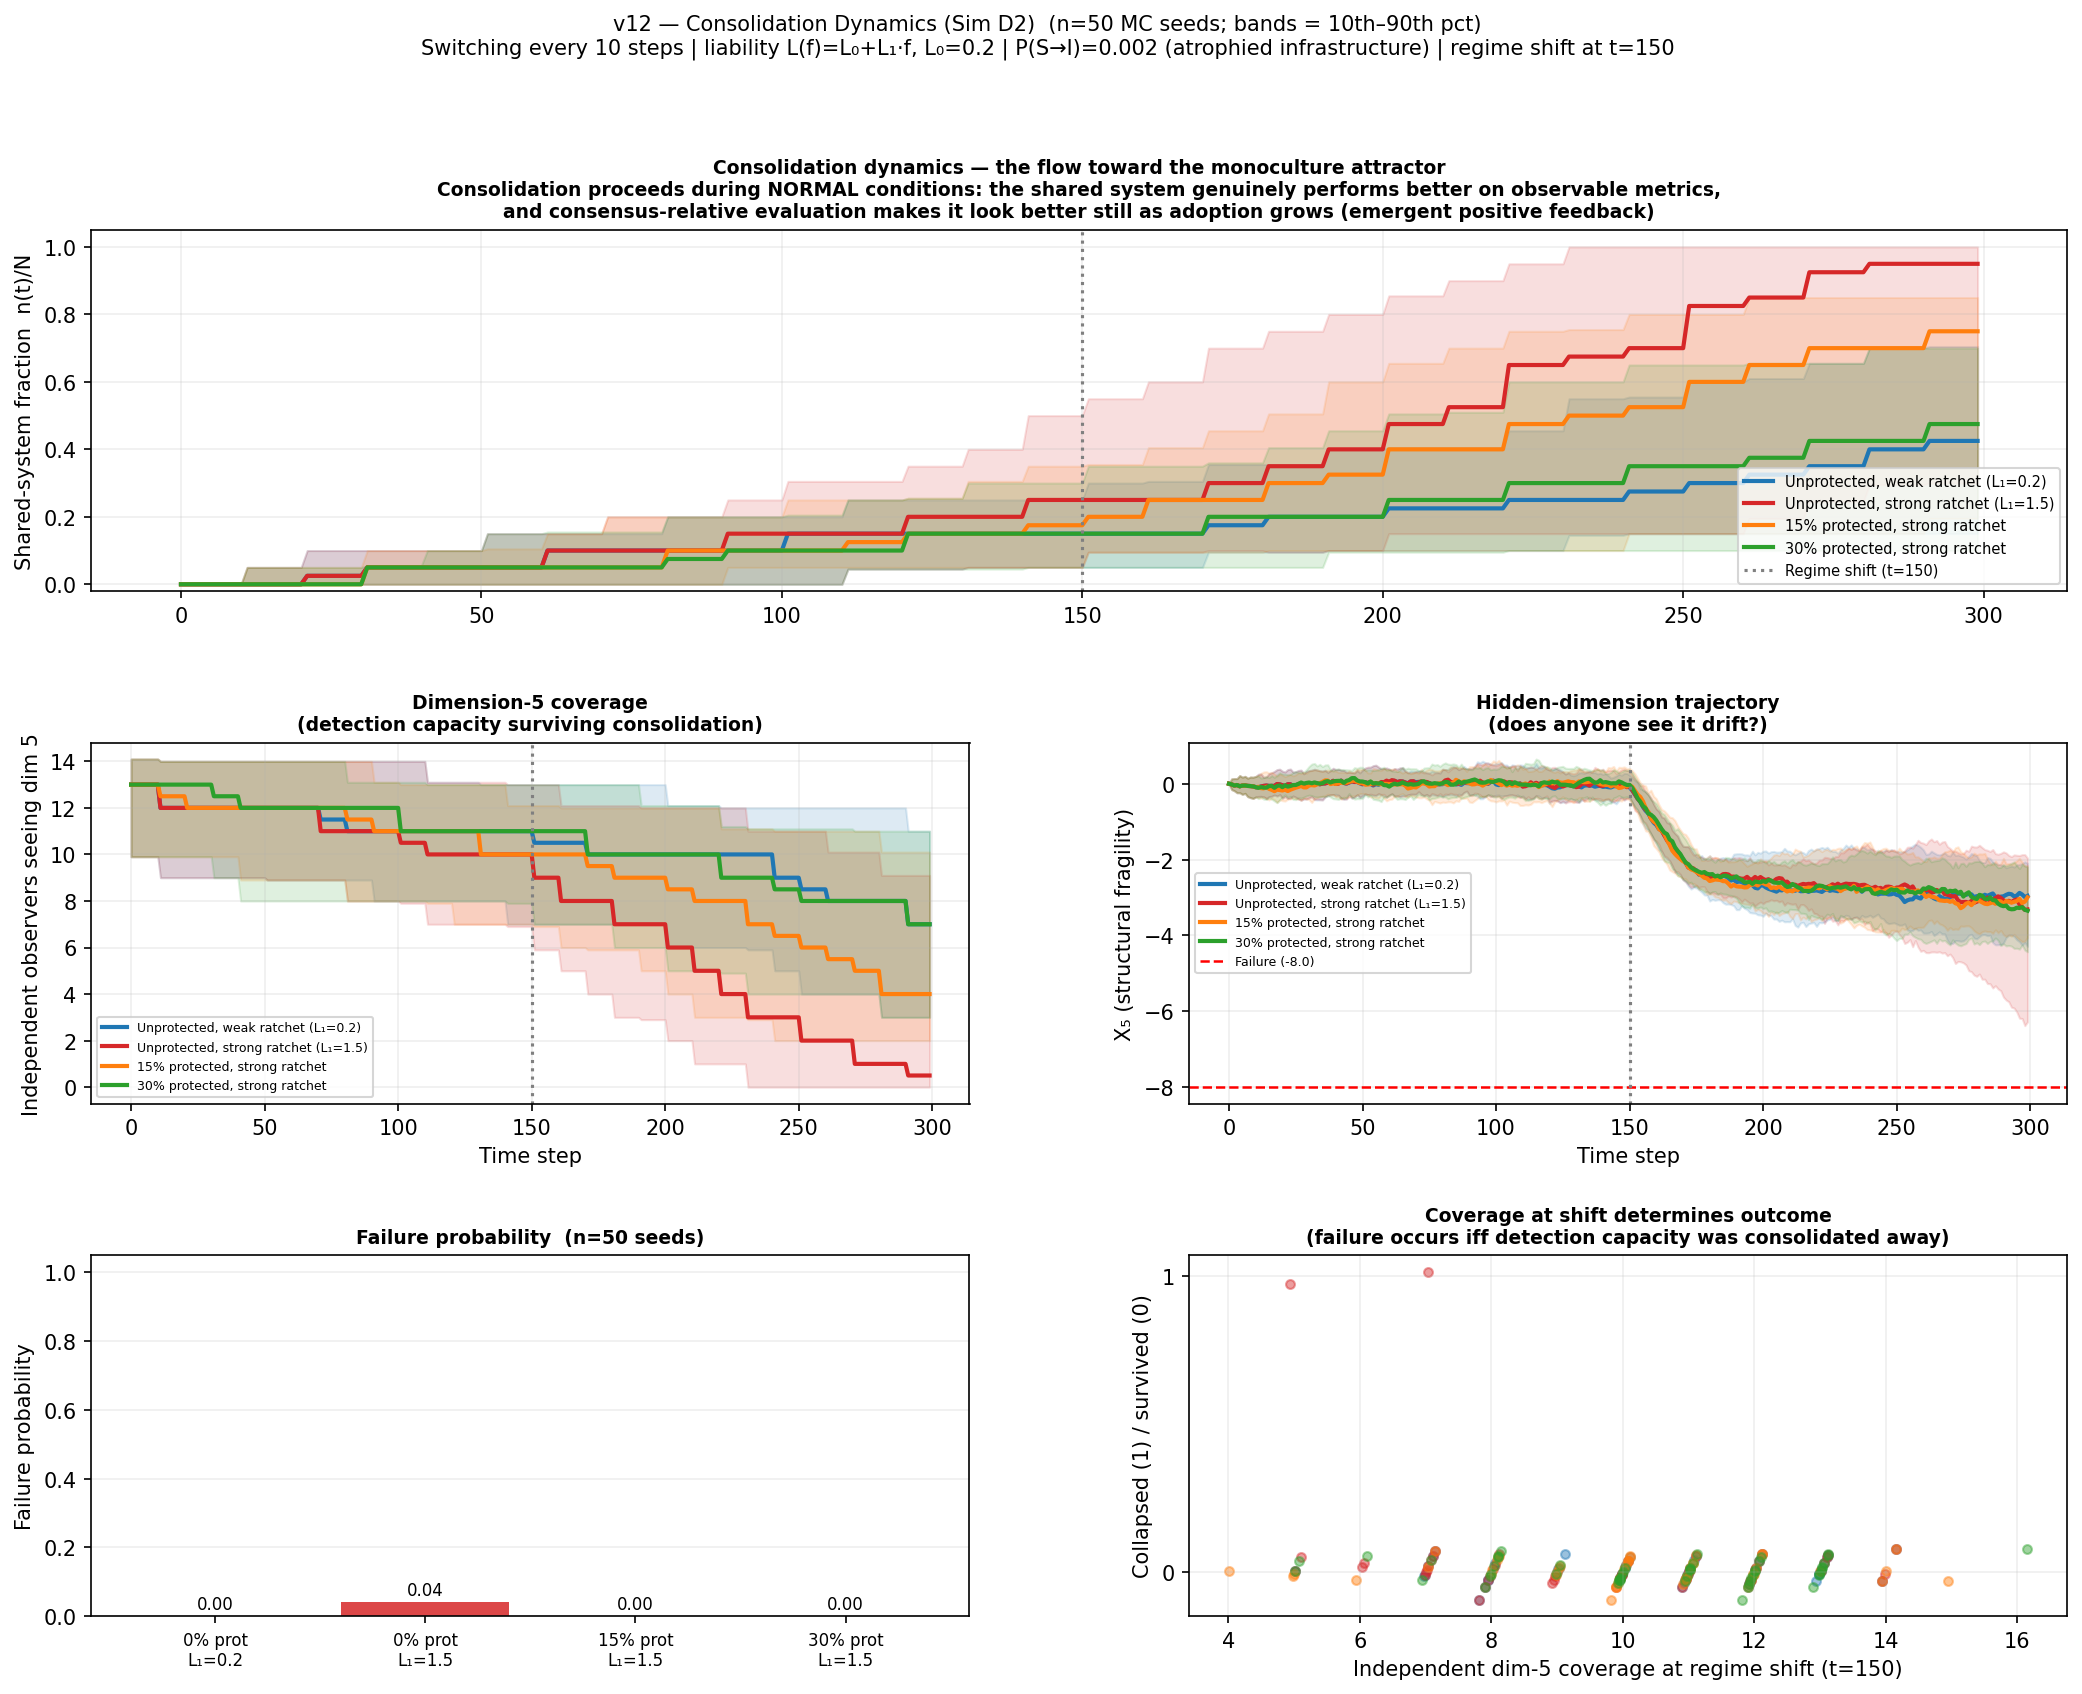
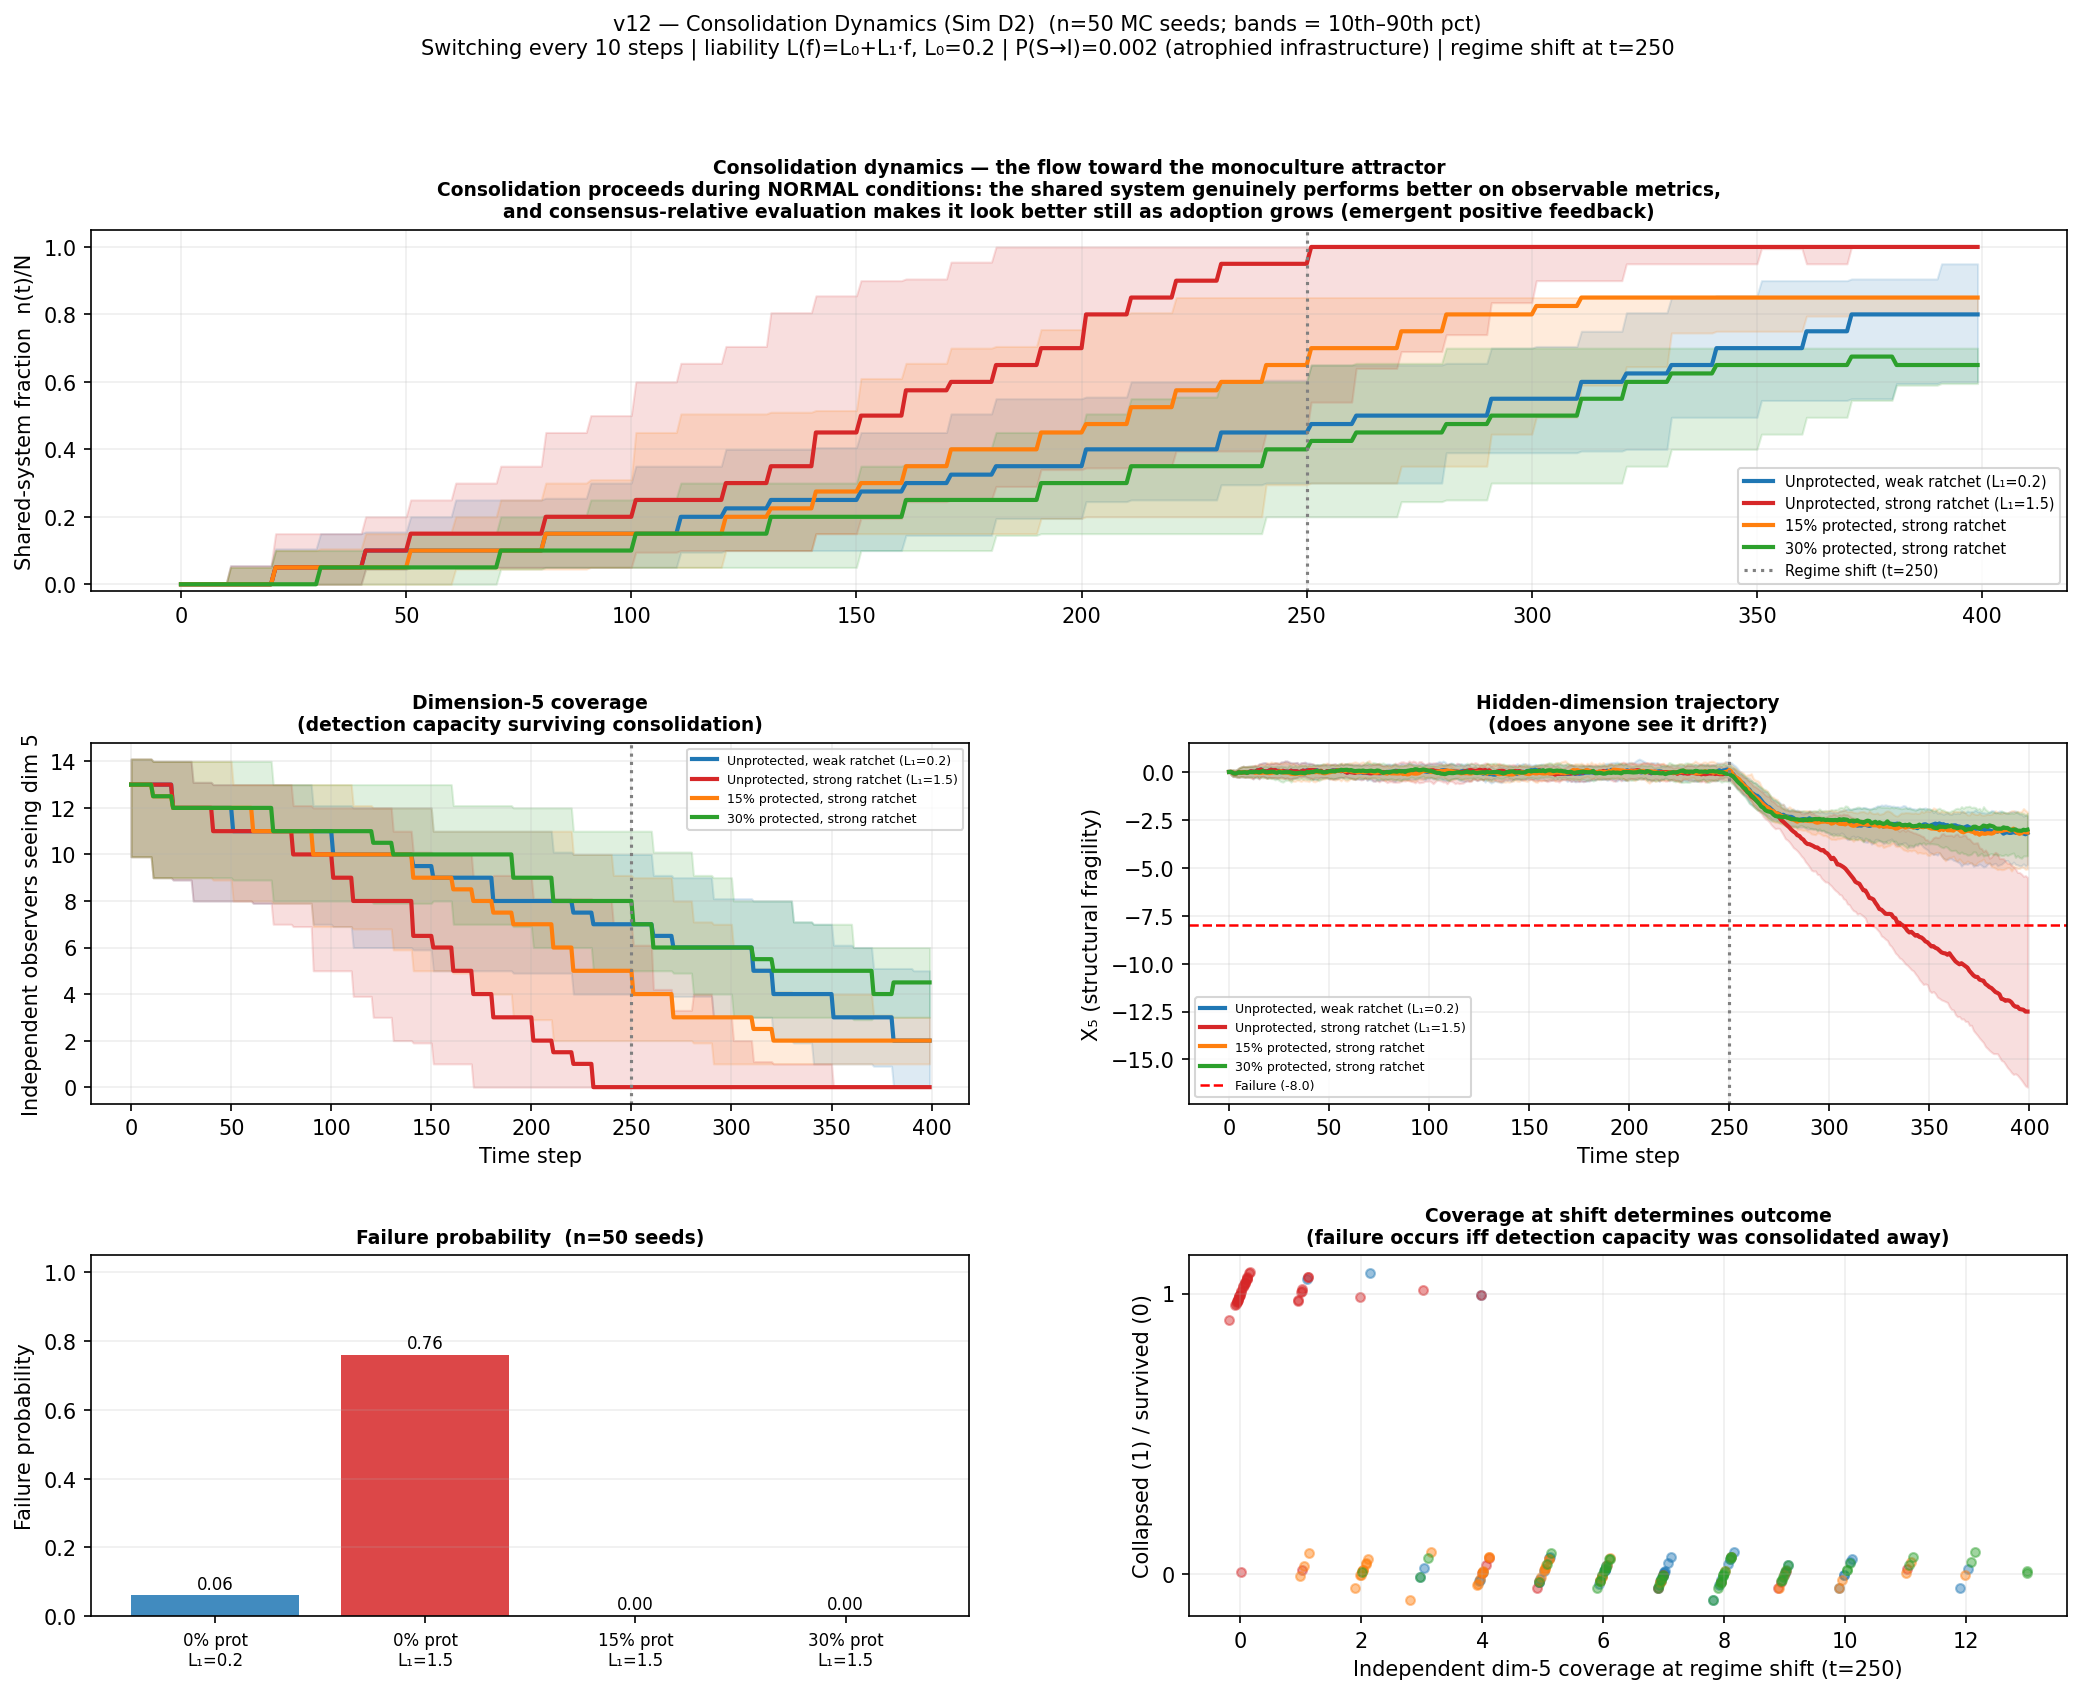
Update README with new papers and simulations

diff --git a/gae-simulator-v12-consolidation-dynamics.py b/gae-simulator-v12-consolidation-dynamics.py
@@ -28,19 +28,19 @@ v12 implements the switching dynamics:
 
 TIMELINE
 --------
-t ∈ [0, 150):  normal conditions. The shared system genuinely performs better
+t ∈ [0, 250):  normal conditions. The shared system genuinely performs better
                on observable dimensions. Consolidation proceeds — driven by
                real short-term advantage, not error.
-t = 150:       regime shift. Dimension 5 (observed by NO shared adopter)
+t = 250:       regime shift. Dimension 5 (observed by NO shared adopter)
                begins persistent drift toward failure.
-t ∈ (150, 300]: the question is whether enough independent observers survived
+t ∈ (250, 400]: the question is whether enough independent observers survived
                consolidation to detect the drift and trigger the gate.
 
 This is the paper's narrative made dynamic: diversity is destroyed during
 normal times precisely because consolidation is then locally rational, and
 the cost appears only when the blind spot becomes load-bearing.
 
-FAILURE: X₅ < −8 at any time within T = 300.
+FAILURE: X₅ < −8 at any time within T = 400.
 
 OUTPUTS
 -------
@@ -58,8 +58,9 @@ os.makedirs('outputs', exist_ok=True)
 
 # ── Constants ──────────────────────────────────────────────────────────────────
 
-T          = 300
-T_SHIFT    = 150          # regime shift (later than v11: consolidation needs runway)
+T          = 400
+T_SHIFT    = 250          # regime shift — 25 evaluation cycles of normal-conditions
+                          # runway so consolidation dynamics can differentiate
 N_OBS      = 20
 DIMS       = 5
 DIM_BLIND  = 4            # dimension 5 = index 4
@@ -94,8 +95,11 @@ L0         = 0.2          # baseline liability cost of independence
 L1_DEFAULT = 0.8
 
 W_ACC      = 1.0          # weight of perceived accuracy differential in advantage
-SWITCH_K   = 2.5          # logistic steepness
-SWITCH_MID = 2.4          # advantage at which P = P_MAX/2
+SWITCH_K   = 2.35         # logistic steepness
+SWITCH_MID = 2.36         # midpoint placed BETWEEN the weak-ratchet advantage
+                          # ceiling (~1.5) and the strong-ratchet late-stage
+                          # advantage (~2.9): weak ratchets saturate at slow
+                          # switching; strong ratchets ignite the feedback loop
 P_MAX      = 0.45         # max switching probability per evaluation
 P_BACK     = 0.002        # probability of S→I per evaluation per org
                           # (atrophied infrastructure: rebuilding an independent
@@ -374,7 +378,7 @@ for sc, m in zip(SCENARIOS, mc):
     jitter = np.random.default_rng(0).normal(0, 0.08, len(cov_at_shift))
     ax_s.scatter(cov_at_shift + jitter, m['collapsed'] + jitter * 0.5,
                  color=sc['color'], alpha=0.45, s=18)
-ax_s.set_xlabel('Independent dim-5 coverage at regime shift (t=150)')
+ax_s.set_xlabel(f'Independent dim-5 coverage at regime shift (t={T_SHIFT})')
 ax_s.set_ylabel('Collapsed (1) / survived (0)')
 ax_s.set_yticks([0, 1])
 ax_s.set_title('Coverage at shift determines outcome\n'

diff --git a/README.md b/README.md
@@ -1,12 +1,8 @@
-Here is the updated README, with Paper V added to the table for completeness, and the two new simulators described.
-
----
-
 # Governance as Engineering Governance Simulator
 
-A series of Python simulations accompanying the **Governance as Engineering** whitepaper series. Each version applies formal tools from control theory, cybernetics, and information theory to a different structural problem in governance design.
+A series of Python simulations accompanying the **Governance as Engineering** working paper series. Each version applies formal tools from control theory, cybernetics, and information theory to a different structural problem in governance design.
 
-All simulations are self‑contained, dependency‑light, and fully reproducible from a fixed random seed.
+All simulations are self‑contained, dependency‑light, and fully reproducible from fixed random seeds. From v8 onward, every simulation adds a Monte Carlo layer (50–200 seeds, reported as median trajectories with 10th–90th percentile bands) and at least one parameter‑sweep map demonstrating that the qualitative results are robust across regions of parameter space rather than artefacts of a single configuration.
 
 ---
 
@@ -19,64 +15,113 @@ All simulations are self‑contained, dependency‑light, and fully reproducible
 | III | [The Observability‑Democracy Connection](https://bjornkennethholmstrom.org/whitepapers/observability-democracy-connection) | Representation chains with 3+ layers are constitutionally unobservable; citizen preferences cannot survive to the policy layer regardless of institutional quality |
 | IV | [Requisite Variety and the Commons](https://bjornkennethholmstrom.org/whitepapers/requisite-variety-and-the-commons) | Commons governance is a feedback loop integrity problem; observation dimensionality — not institutional quality — determines outcomes; state management is worse than open access |
 | V | [The Coordination Failure Tax](https://bjornkennethholmstrom.org/whitepapers/coordination-failure-tax) | The four failure modes multiply rather than add; governance systems exhibiting all four are categorically incapable of the functions they claim to perform |
-| VI | [The Variety Gap](https://bjornkennethholmstrom.org/whitepapers/the-variety-gap) | What we don’t optimize for, we lose the ability to see — objective functions are observation architectures, and low‑dimensional value functions produce structural collapse |
+| VI | [The Variety Gap](https://bjornkennethholmstrom.org/whitepapers/the-variety-gap) | What we don't optimize for, we lose the ability to see — objective functions are observation architectures, and low‑dimensional value functions produce structural collapse |
+| VII | [The Architecture of Governance Failure](https://www.bjornkennethholmstrom.org/working-papers/architecture-of-governance-failure) | Reform disappoints for structural reasons: the immune system, the bypass trap, and the legibility problem are features of the transition landscape, not contingent failures — a qualitative synthesis of fifteen country studies |
+| VIII | [Measuring the Variety Gap](https://www.bjornkennethholmstrom.org/working-papers/measuring-the-variety-gap) | The variety gap is measurable: a composite index estimated from observable proxies, with epistemic tiering, across twenty country and organizational cases |
+| IX | [The Political Economy of Requisite Governance](https://www.bjornkennethholmstrom.org/working-papers/political-economy-of-requisite-governance)* | Transition bandwidth is the ninth structural primitive; latency asymmetry favours embedded incumbents; systems lose the capacity for self‑redesign strictly before operational collapse |
+| X | [Requisite Observer Diversity](https://www.bjornkennethholmstrom.org/working-papers/requisite-observer-diversity) | Observer diversity is the tenth structural primitive; N_eff = N/(1+(N−1)ρ) — a consolidated observer ensemble retains N nominal observers but the protection of one, and its blind spots are invisible to every instrument it possesses |
 
 ---
 
 ## Simulators
 
 ### v1 — Conceptual sketch
-Exploratory prototype. Not documented in the whitepapers.
+Exploratory prototype. Not documented in the working papers.
 
-### v2 — Single‑node scalar feedback (Paper I)
+### v2 — Single‑node scalar feedback (Paper I)
 Introduces the core feedback loop model: a single governance node with configurable latency and signal fidelity, subject to an external disturbance. Demonstrates the stability ceiling imposed by high latency.
 
 ```bash
 python gae-simulator-v2.py
 ```
 
-### v3 — Ten‑node vector model with localized shock (Paper I)
+### v3 — Ten‑node vector model with localized shock (Paper I)
 Extends v2 to a ten‑node spatial system. A localized shock at nodes 2 and 7 is visible to the local controller but invisible to the central controller, which sees only the aggregate signal. Demonstrates the averaging problem — the formal basis for subsidiarity.
 
 ```bash
 python gae-simulator-v3.py
 ```
 
-### v3‑unadjusted — Instability demonstration (Paper I)
+### v3‑unadjusted — Instability demonstration (Paper I)
 Identical to v3 but with gain set above the stability ceiling. Demonstrates the oscillatory failure mode predicted by the gain margin analysis.
 
 ```bash
 python gae-simulator-v3-unadjusted.py
 ```
 
-### v4 — Multi‑scale disturbance, three architectures (Paper II)
+### v4 — Multi‑scale disturbance, three architectures (Paper II)
 Models a governance system facing simultaneous fast, medium, and slow disturbances. Compares three architectures: single global controller, single local controller, and fractal nested controller. Demonstrates the frequency gap theorem — no single‑scale controller covers all disturbance bands.
 
 ```bash
 python gae-simulator-v4.py
 ```
 
-### v5 — Representation chain observability, four architectures (Paper III)
-Shifts domain from stability to preference transmission. Models 60 citizen groups holding preferences across 4 dimensions, transmitted through representation chains of 1–5 layers. Computes SNR at the policy layer. Demonstrates the constitutional unobservability threshold: SNR < 1 at ≥3 layers regardless of institutional quality.
+### v5 — Representation chain observability, four architectures (Paper III)
+Shifts domain from stability to preference transmission. Models 60 citizen groups holding preferences across 4 dimensions, transmitted through representation chains of 1–5 layers. Computes SNR at the policy layer. Demonstrates the constitutional unobservability threshold: SNR < 1 at ≥3 layers regardless of institutional quality.
 
 ```bash
 python gae-simulator-v5.py
 ```
 
-### v6 — Commons governance and requisite variety, five architectures (Paper IV)
+### v6 — Commons governance and requisite variety, five architectures (Paper IV)
 Models a 12‑patch renewable resource governed by five architectures over 30 years (360 months), subject to fast stochastic shocks, seasonal cycles, and a slow decadal carrying‑capacity decline. Computes mean stock, collapse risk, and extraction inequality (Gini) per architecture.
 
-Key finding: state management (Architecture B, annual survey) achieves 98.9% collapse risk — worse than open access (A, 93.6%) — because high observation latency combined with single‑dimension aggregation produces destabilising interventions. Community commons (D, 3 observation dimensions) and bioregional/indigenous governance (E, 6 dimensions including the slow ecological signal) are the only architectures that avoid near‑certain collapse.
+Key finding: state management (Architecture B, annual survey) achieves 98.9% collapse risk — worse than open access (A, 93.6%) — because high observation latency combined with single‑dimension aggregation produces destabilising interventions. Community commons (D, 3 observation dimensions) and bioregional/indigenous governance (E, 6 dimensions including the slow ecological signal) are the only architectures that avoid near‑certain collapse.
 
 ```bash
 python gae-simulator-v6.py
 ```
 
-### v7 — Value‑function collapse, two architectures (Paper VI)
-A minimal dynamical model of the Goodhart‑Ashby synthesis. Two coupled state variables — Wealth (W) and Environment (E) — are governed by a 1D controller (GDP‑only, observes only W) and a 2D controller (wellbeing‑aware, observes W and E). The 1D controller initially drives growth, silently degrades E, and eventually collapses because its narrow value architecture destroys the very condition (a healthy environment) that sustained its target. The 2D controller moderates investment and stabilises both dimensions. The simulation is a direct instantiation of the variety gap: **G = dim(R) − dim(V) = 2 − 1 = 1 > 0**, and the excluded dimension re‑enters as catastrophe.
+### v7 — Value‑function collapse, two architectures (Paper VI)
+A minimal dynamical model of the Goodhart‑Ashby synthesis. Two coupled state variables — Wealth (W) and Environment (E) — are governed by a 1D controller (GDP‑only, observes only W) and a 2D controller (wellbeing‑aware, observes W and E). The 1D controller initially drives growth, silently degrades E, and eventually collapses because its narrow value architecture destroys the very condition (a healthy environment) that sustained its target. The 2D controller moderates investment and stabilises both dimensions. The simulation is a direct instantiation of the variety gap: **G = dim(R) − dim(V) = 2 − 1 = 1 > 0**, and the excluded dimension re‑enters as catastrophe.
 
 ```bash
 python gae-simulator-v7.py
+```
+
+### v8 — Bypass‑trap dynamics, three scenarios (Paper IX)
+Models the bypass trap: a dysfunctional governance substrate (dysfunction D) and a parallel bypass institution (load share B) that absorbs functions the substrate fails to perform. Reform pressure responds only to *visible* dysfunction D·(1−B), so the bypass hides the problem it routes around — while the substrate caps the bypass's own performance ceiling. Three scenarios: no bypass, permanent bypass, and a sunset‑coupled bypass that dismantles itself once a demonstrated‑performance threshold is crossed, returning load and reform pressure to the substrate.
+
+Key findings: the permanent bypass creates a stable low‑performance attractor — the system *looks* healthiest (highest perceived performance) while actual performance is capped lowest. A dedicated deception‑gap panel (perceived − actual performance) shows the trap's self‑concealing signature: persistent positive gap under permanent bypass, zero under no bypass, transient under sunset coupling. The sunset variant escapes the attractor and outperforms even the no‑bypass baseline — conditional on the modelling assumption that deferred reform pressure is productively redirected at sunset. Monte Carlo: 75 seeds; sweep: drift rate × reform rate, showing the sunset coupling extends the feasible‑reform region.
+
+```bash
+python gae-simulator-v8-bypass-trap.py
+```
+
+### v9 — Reform‑incumbent latency asymmetry (Paper IX)
+Two controllers act on the same ten‑dimensional architecture state: a reform coalition (observes 8 dimensions, latency τ_R) pushing toward the target, and an incumbent (observes d_I dimensions, latency τ_I ≤ τ_R) pulling back. The latency advantage is modelled as an effective counter‑mobilisation gain boost on contested dimensions — an explicit tier‑2 assumption, since in a bounded push‑pull system pure observation delay cannot shift the equilibrium.
+
+Key findings: reform wins unopposed on dimensions the incumbent does not monitor (the structural "reform floor"); success declines as incumbent coverage d_I rises and as the latency ratio falls. The full τ_ratio × d_I phase diagram shows a **gradient boundary, not a sharp threshold** — the simulation that disciplines Paper IX's dim(T) ≥ dim(I) condition down to a heuristic rather than a law. Monte Carlo: 50 seeds; sweep: 12 × 10 grid with classified outcomes (success / contested / absorbed).
+
+```bash
+python gae-simulator-v9-latency-asymmetry.py
+```
+
+### v10 — Transition bandwidth race, three parameterisations (Paper IX)
+Couples the variety gap G(t) to the reform capacity R(t) that closes it: a growing gap consumes the very capacity needed to close it, through crisis crowd‑out and incumbent capture. Compares a high‑bandwidth federation, a bypass‑heavy system, and a locked regime, under constant and accelerating (AI‑scenario) environmental demand.
+
+Key finding — the **two‑threshold structure**: the locked regime enters a *transition‑bandwidth trap* (R → 0 at G ≈ 0.61, far below the operational collapse threshold G_crit = 1.8) roughly a hundred steps before operational collapse. The system still functions but can no longer redesign itself — the paper's point of no return, reached strictly before the crisis is visible. Accelerating demand compresses the window between trap and collapse, and breaks the bypass‑heavy system that survives constant demand. Monte Carlo: 60 seeds; sweep: regeneration rate × capture rate with three‑way outcome classification (reformed / trapped / collapsed).
+
+```bash
+python gae-simulator-v10-bandwidth-race.py
+```
+
+### v11 — Epistemic monoculture collapse, Experiment D1: fixed ensembles (Paper X)
+Twenty observer organizations monitor a five‑dimensional latent state. Independent observers each cover a random three of five dimensions with decorrelated noise; shared‑system adopters cover dimensions 1–4 with higher precision and *identical* noise — and are structurally blind to dimension 5, which begins a slow persistent drift at t = 100. Three fixed populations: diverse (20 independent), mixed (5 protected independents + 15 shared), monoculture (20 shared). Detection operates on the independent ensemble's mean estimate of dimension 5; if no one observes it, the precautionary gate can never fire.
+
+Key findings: monoculture fails in 95% of runs — with every instrument reporting acceptable conditions — versus 2% (mixed) and 0% (diverse). The mixed failures are exactly the coverage lottery: (4/10)⁵ ≈ 1% chance that none of the five protected observers draws dimension 5, confirming that in the rank‑deficiency regime failure is a deterministic function of coverage. The protected‑fraction sweep is front‑loaded: failure probability falls 0.98 → 0.40 → 0.16 → 0.08 → 0.03 over the first four independent observers, effectively zero from five. Monte Carlo: 100 seeds (200 per sweep point).
+
+```bash
+python gae-simulator-v11-epistemic-monoculture.py
+```
+
+### v12 — Consolidation dynamics, Experiment D2: the monoculture attractor (Paper X)
+Extends v11 with the switching dynamics of Paper X Part III. All organizations start independent; every ten steps each unprotected organization re‑evaluates its strategy on perceived accuracy and cost. Perceived accuracy is **consensus‑relative** (the true state is unobservable), which produces an emergent positive feedback: shared‑system adopters cluster around the consensus they collectively constitute, so consolidation makes the shared system look progressively better regardless of accuracy against truth. A liability ratchet L(f) = L₀ + L₁·f raises the cost of independence as the shared fraction grows; switching back is rare (atrophied infrastructure); a protected fraction never switches. The regime shift arrives at t = 250 — after twenty‑five evaluation cycles of normal conditions during which consolidation is genuinely the locally rational choice.
+
+Key findings: under a strong liability ratchet (L₁ = 1.5) with no protection, consolidation reaches 97% before the shift and the system fails in 76% of runs; a weak ratchet (L₁ = 0.2) consolidates to only 45% and fails in 6%. **15% constitutional protection reduces failure to zero at every ratchet strength tested** — and exhibits a spillover effect: protected independents anchor the consensus, slowing consolidation among the *unprotected* as well (shared fraction at shift drops from 0.97 to 0.65). The monoculture is near‑absorbing: the surviving strong‑ratchet runs are rescued by rare post‑shift reversions to independence. Monte Carlo: 50 seeds; sweep: protected fraction × L₁ (20 seeds/cell; ~3–5 min runtime).
+
+```bash
+python gae-simulator-v12-consolidation-dynamics.py
 ```
 
 ---
@@ -102,6 +147,18 @@ python self-stability-simulator.py
 | `outputs/gae-simulator-v5.png` | Observability: SNR collapse and preference tracking across four architectures |
 | `outputs/gae-simulator-v6.png` | Commons: resource stock, requisite variety, equity, and slow variable tracking |
 | `outputs/gae-simulator-v7.png` | Goodhart‑Ashby synthesis: 1D vs 2D value architecture, wealth‑environment collapse |
+| `outputs/v8-bypass-trap-main.png` | Bypass trap: dysfunction, performance, deception gap, phase portrait |
+| `outputs/v8-bypass-trap-sweep.png` | Bypass trap: drift rate × reform rate, three scenarios |
+| `outputs/v9-latency-main.png` | Latency asymmetry: trajectories, coverage and latency sweeps, findings |
+| `outputs/v9-latency-sweep.png` | Latency asymmetry: τ_ratio × d_I phase diagram, classified outcomes |
+| `outputs/v10-bandwidth-main.png` | Bandwidth race: G/R trajectories, two‑threshold phase portrait, collapse timing |
+| `outputs/v10-bandwidth-sweep.png` | Bandwidth race: regeneration × capture, constant vs. accelerating demand |
+| `outputs/v11-monoculture-trajectories.png` | Monoculture D1: true X₅ vs. controller estimates per scenario |
+| `outputs/v11-monoculture-spread.png` | Monoculture D1: independent‑observer ensemble spread diagnostic |
+| `outputs/v11-monoculture-phase.png` | Monoculture D1: (X₁, X₅) phase portrait — lockstep drift across the failure boundary |
+| `outputs/v11-monoculture-sweep.png` | Monoculture D1: failure probability vs. protected observer fraction |
+| `outputs/v12-consolidation-main.png` | Consolidation D2: n(t)/N flow, coverage, X₅, outcome scatter |
+| `outputs/v12-consolidation-sweep.png` | Consolidation D2: protected fraction × liability ratchet strength |
 | `outputs/self-stability-simulator.png` | Self‑variety gap: career‑only vs. multi‑dimensional personal value architecture |
 
 ---
@@ -117,7 +174,7 @@ python self-stability-simulator.py
 | C — Semi‑direct | 2 | 0.022 | 79% | 0.254 |
 | D — Direct/participatory | 1 | 0.008 | 100% | 1.780 |
 
-Constitutional unobservability threshold: SNR < 1, crossed at approximately 2–3 layers.
+Constitutional unobservability threshold: SNR < 1, crossed at approximately 2–3 layers.
 
 ### v6 — Commons governance and requisite variety
 
@@ -129,25 +186,70 @@ Constitutional unobservability threshold: SNR < 1, crossed at approximately 
 | D — Community commons | 27.2% | 30.3% | 0.085 | 3 |
 | E — Bioregional / indigenous | 31.1% | 3.6% | 0.032 | 6 |
 
-Collapse threshold: stock below 20% of carrying capacity. Simulation: 30 years, 12 patches, 20 user groups, seed 42.
+Collapse threshold: stock below 20% of carrying capacity. Simulation: 30 years, 12 patches, 20 user groups, seed 42.
 
 ### v7 — Value‑function collapse (Goodhart‑Ashby synthesis)
 
-| Architecture | dim(V) | Mean W (last 50) | Collapse risk (E < 30) | Final E |
+| Architecture | dim(V) | Mean W (last 50) | Collapse risk (E < 30) | Final E |
 |---|---|---|---|---|
-| 1D (GDP‑only) | 1 | ~42 | 1.0 (collapse at t≈ …) | ~ 0 |
-| 2D (Wellbeing‑aware) | 2 | ~85 | 0.0 | ~ 55 |
+| 1D (GDP‑only) | 1 | ~42 | 1.0 (collapse at t≈ …) | ~ 0 |
+| 2D (Wellbeing‑aware) | 2 | ~85 | 0.0 | ~ 55 |
 
-The 1D controller destroys the environmental basis of its own target and collapses; the 2D controller achieves a stable equilibrium. Exact values depend on the disturbance draw; the quoted figures use seed 2024.
+The 1D controller destroys the environmental basis of its own target and collapses; the 2D controller achieves a stable equilibrium. Exact values depend on the disturbance draw; the quoted figures use seed 2024.
 
-### Self Stability Simulator
+### v8 — Bypass‑trap dynamics (75 MC seeds, medians over last 50 steps)
 
-| Architecture | G_self | Crisis fraction | Mean wellbeing (last 50) |
+| Scenario | Final dysfunction D | Final performance P | Deception gap (P_perc − P_actual) |
 |---|---|---|---|
-| 1D (Career‑only) | 4 | ~0.35 | ~ 42 |
-| ND (Multi‑dim) | 2 | ~0.02 | ~ 72 |
+| No bypass | 0.27 | 0.73 | 0.00 |
+| Permanent bypass | 0.37 | 0.66 | ~0.18, persistent |
+| Sunset‑coupled bypass | 0.17 | 0.83 | transient, closes at sunset |
 
-Both controllers operate with identical total effort budgets. The difference is purely architectural — what the person chooses to track and attend to.
+The permanent bypass is the low‑performance attractor: highest perceived health, lowest actual ceiling. The sunset advantage over no‑bypass depends on the assumption that deferred reform pressure is productively redirected (multiplier 2.5).
+
+### v9 — Reform‑incumbent latency asymmetry (50 MC seeds, median final architecture quality A)
+
+| Case | τ_ratio | d_I | Final A | Outcome |
+|---|---|---|---|---|
+| C1 | 0.13 | 8 | 0.33 | absorbed |
+| C2 | 0.25 | 6 | 0.43 | contested |
+| C3 | 0.75 | 5 | 0.54 | contested |
+| C4 | 1.00 | 2 | 0.70 | success |
+
+Full τ_ratio × d_I sweep: the success/absorption boundary is a gradient, not a sharp threshold — dim(T) ≥ dim(I) holds as a tier‑2 heuristic.
+
+### v10 — Transition bandwidth race (60 MC seeds, median event times)
+
+| System | Demand | Bandwidth trap (t, G at trap) | Operational collapse (t) |
+|---|---|---|---|
+| Federation | constant / accelerating | never | never |
+| Bypass‑heavy | constant | never | never |
+| Bypass‑heavy | accelerating | 144 (G ≈ 1.4) | 164 |
+| Locked | constant | **31 (G ≈ 0.61)** | 136 |
+| Locked | accelerating | 29 | 102 |
+
+The two‑threshold structure: the locked regime loses the capacity for self‑redesign (R → 0) at G ≈ 0.61, roughly a hundred steps before operational collapse at G_crit = 1.8.
+
+### v11 — Epistemic monoculture, Experiment D1 (100 MC seeds)
+
+| Scenario | Independent / shared | Failure probability | Detection |
+|---|---|---|---|
+| Diverse | 20 / 0 | 0.00 | gate at t ≈ 120 |
+| Mixed (protected) | 5 / 15 | 0.02 | gate fires unless coverage lottery fails (≈1%) |
+| Monoculture | 0 / 20 | 0.95 | never — dimension 5 unobserved |
+
+Protected‑fraction sweep (200 seeds/point): 0.98 → 0.40 → 0.16 → 0.08 → 0.03 → ~0 for 0–5 independent observers.
+
+### v12 — Consolidation dynamics, Experiment D2 (50 MC seeds)
+
+| Scenario | Shared fraction at shift | Failure probability |
+|---|---|---|
+| Unprotected, weak ratchet (L₁ = 0.2) | 0.45 | 0.06 |
+| Unprotected, strong ratchet (L₁ = 1.5) | 0.97 | 0.76 |
+| 15% protected, strong ratchet | 0.65 | 0.00 |
+| 30% protected, strong ratchet | 0.43 | 0.00 |
+
+2D sweep (protected fraction × L₁, 20 seeds/cell): failure peaks at 0.60 in the unprotected/strong‑ratchet corner and is ≈ 0 for protection ≥ 0.15 at every ratchet strength. Note the spillover: protection slows consolidation among the unprotected as well.
 
 ---
 
@@ -158,7 +260,7 @@ pip install numpy matplotlib
 python gae-simulator-v7.py   # or any other version
 ```
 
-No other dependencies. All versions tested on Python 3.10+.
+No other dependencies. All versions tested on Python 3.10+. The v12 parameter sweep takes roughly 3–5 minutes; all other simulations complete in well under a minute.
 
 ---
 
@@ -171,4 +273,4 @@ MIT. Contributions, extensions, and empirical applications welcome via GitHub is
 ## Related
 
 - [Global Governance Frameworks](https://globalgovernanceframeworks.org) — the broader governance framework project these simulations support
-- [bjornkennethholmstrom.org/whitepapers](https://bjornkennethholmstrom.org/whitepapers) — full whitepaper series with mathematical appendices
+- [bjornkennethholmstrom.org/working-papers](https://bjornkennethholmstrom.org/working-papers) — full working paper series with mathematical appendices